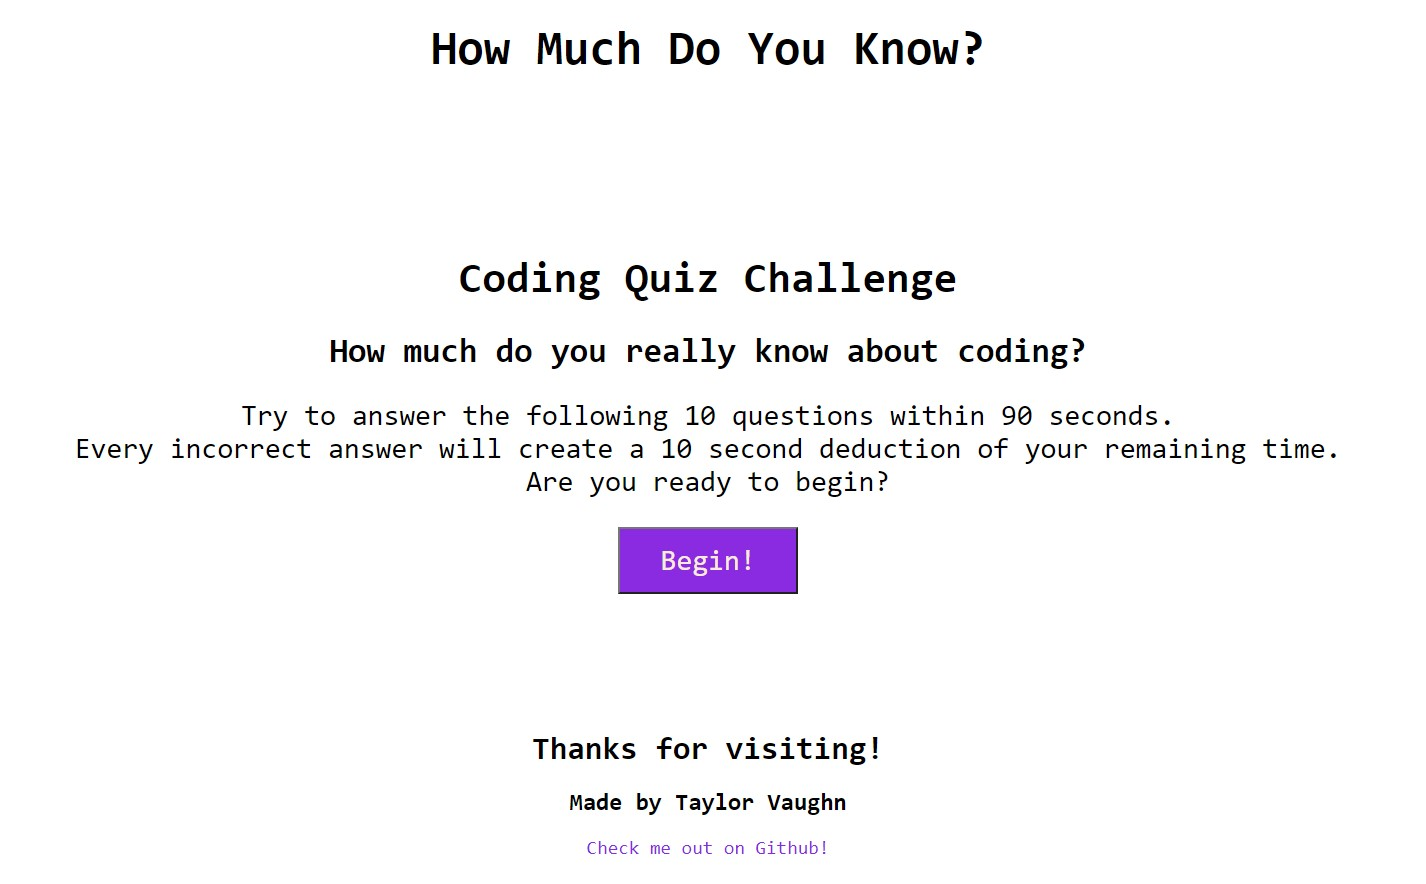
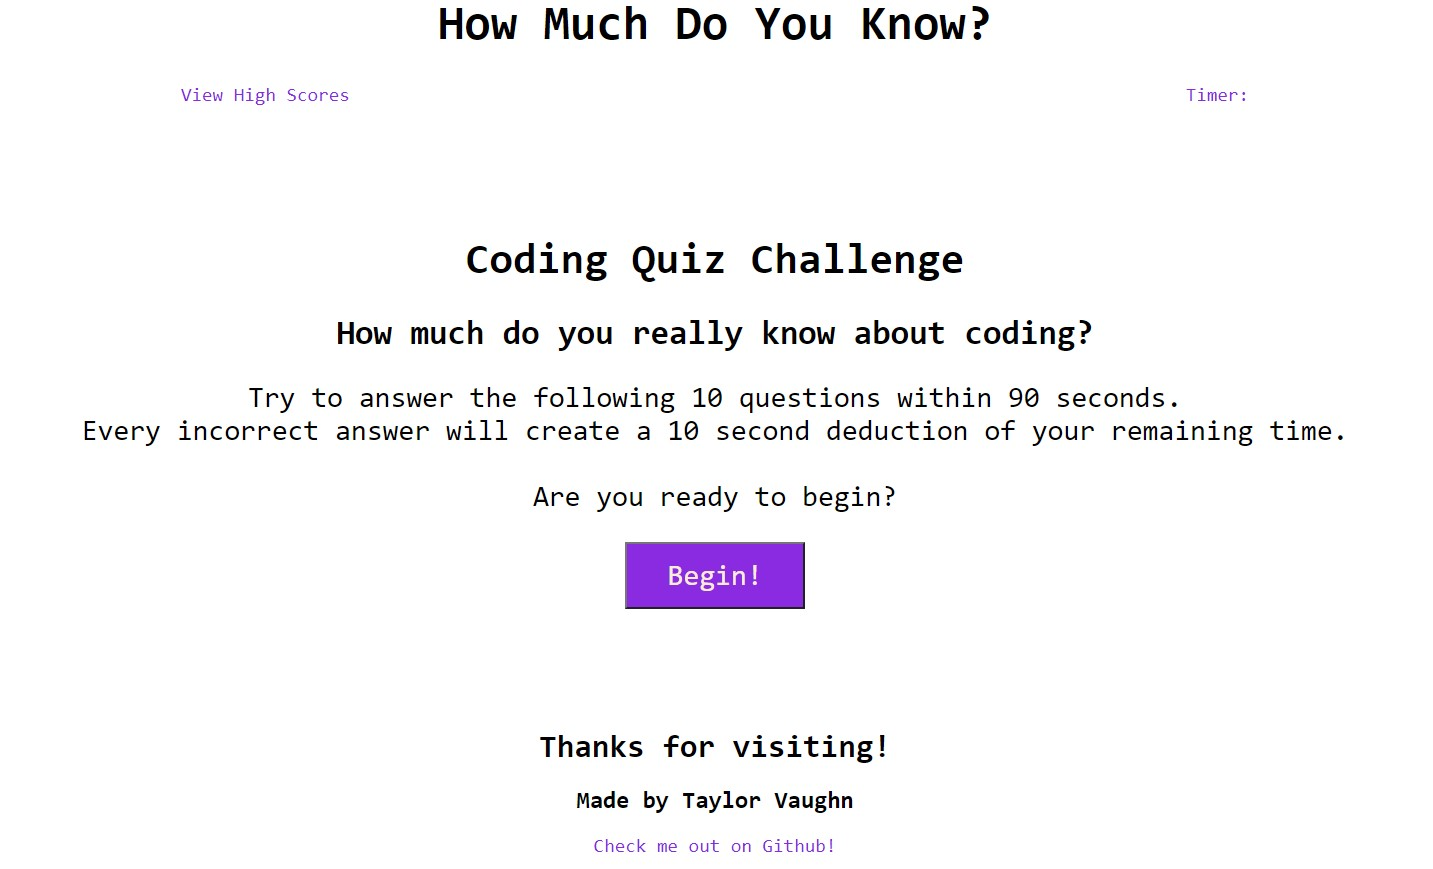
working on questions

diff --git a/assets/app.js b/assets/app.js
@@ -16,83 +16,9 @@ var clearButton = document.getElementById('clear');
 var viewButton = document.getElementById('scores');
 
 // 
-
-// score
-const score = "";
+var quizQuestion = document.getElementById('quizQuestion')
 
 
-// timer
-
-
-
-function reset() {
-    
-};
-
-// page starts with just coding quiz challenge 'first-page', hiding all others
-// can choose to go straight to the high scores on nav bar
-function beginQuiz() {
-    beginning.style.display = "block";
-    questionsPage.style.display = "none";
-    ending.style.display = "none";
-    highScorePage.style.display = "none";
-    beginButton.addEventListener('click', startQuestions);
-};
-
-
-// begins the test, showing only 'questions' class, hiding all others
-function startQuestions() {
-    beginning.style.display = "none";
-    questionsPage.style.display = "block";
-    ending.style.display = "none";
-    highScorePage.style.display = "none";
-    
-    
-    // start over with 0 score and timer
-    const score = 0;
-    var timeLeft = 90;
-    var countdownBegin = setInterval(function() {
-        if(timeLeft <=0) {
-            clearInterval(countdownBegin);
-            testEnds();
-        } else {
-            document.getElementById('timer').innerHTML = "Timer: " + timeLeft;
-        }
-        timeLeft -= 1;
-    }, 1000);
-    // start questions
-
-
-    // answer 
-
-
-
-    // once finished with all of questions, function testEnds
-};
-
-
-// test ends, showing only 'last-page' class, hiding all others
-function testEnds() {
-    beginning.style.display = "none";
-    questionsPage.style.display = "none";
-    ending.style.display = "block";
-    highScorePage.style.display = "none";
-
-
-    submitScore.addEventListener('click', HighScores);
-};
-
-
-// after submitting initials, shows only 'high-scores' page, hiding all others
-function HighScores() {
-    beginning.style.display = "none";
-    questionsPage.style.display = "none";
-    ending.style.display = "none";
-    highScorePage.style.display = "block";
-
-    returnButton.addEventListener('click', beginQuiz);
-    clearButton.addEventListener('click', reset);
-};
 
 
 // questions
@@ -177,6 +103,96 @@ const questions = [{
     correctAnswer: "",
 },
 ];
+
+// score
+const score = "";
+const questionIndex = 0;
+const finalQuestion = questions.length;
+
+function reset() {
+    score = 0;
+    questionIndex = 0;
+
+    // clear local storage
+};
+
+// page starts with just coding quiz challenge 'first-page', hiding all others
+// can choose to go straight to the high scores on nav bar
+function beginQuiz() {
+    beginning.style.display = "block";
+    questionsPage.style.display = "none";
+    ending.style.display = "none";
+    highScorePage.style.display = "none";
+    beginButton.addEventListener('click', startQuestions);
+};
+
+
+// begins the test, showing only 'questions' class, hiding all others
+function startQuestions() {
+    beginning.style.display = "none";
+    questionsPage.style.display = "block";
+    ending.style.display = "none";
+    highScorePage.style.display = "none";
+    
+    
+    // start over with 0 score and timer
+    const score = 0;
+    const questionIndex = 0;
+    var timeLeft = 90;
+    var countdownBegin = setInterval(function() {
+        if(timeLeft <=0) {
+            clearInterval(countdownBegin);
+            testEnds();
+        } else {
+            document.getElementById('timer').innerHTML = "Timer: " + timeLeft;
+        }
+        timeLeft -= 1;
+    }, 1000);
+    // start questions, starts at 0 index
+    var qq = questions[questionIndex];
+
+    //  puts questions and answers on h1 and buttons
+    quizQuestion.innerHTML = qq.question;
+    buttonAnswerA.innerHTML = qq.answerA;
+    buttonAnswerB.innerHTML = qq.answerB;
+    buttonAnswerC.innerHTML = qq.answerC;
+    buttonAnswerD.innerHTML = qq.answerD;
+    
+    // button.addEventListener('click', checkAnswer);
+
+    // answer 
+
+
+
+    // once finished with all of questions, function testEnds
+};
+
+
+// test ends, showing only 'last-page' class, hiding all others
+function testEnds() {
+    beginning.style.display = "none";
+    questionsPage.style.display = "none";
+    ending.style.display = "block";
+    highScorePage.style.display = "none";
+
+
+    submitScore.addEventListener('click', HighScores);
+};
+
+
+// after submitting initials, shows only 'high-scores' page, hiding all others
+function HighScores() {
+    beginning.style.display = "none";
+    questionsPage.style.display = "none";
+    ending.style.display = "none";
+    highScorePage.style.display = "block";
+
+    returnButton.addEventListener('click', beginQuiz);
+    clearButton.addEventListener('click', reset);
+};
+
+
+
 
 // start on first page
 beginQuiz();

diff --git a/index.html b/index.html
@@ -44,7 +44,7 @@
                 <li><button type="button" class="btn questinoBtn" id="d"></button></li>
             </ol>
             <!-- right or wrong -->
-            <div class="inCorrect"></div>
+            <div id="inCorrect"></div>
         </div>
 
         <!-- finished quiz -->
